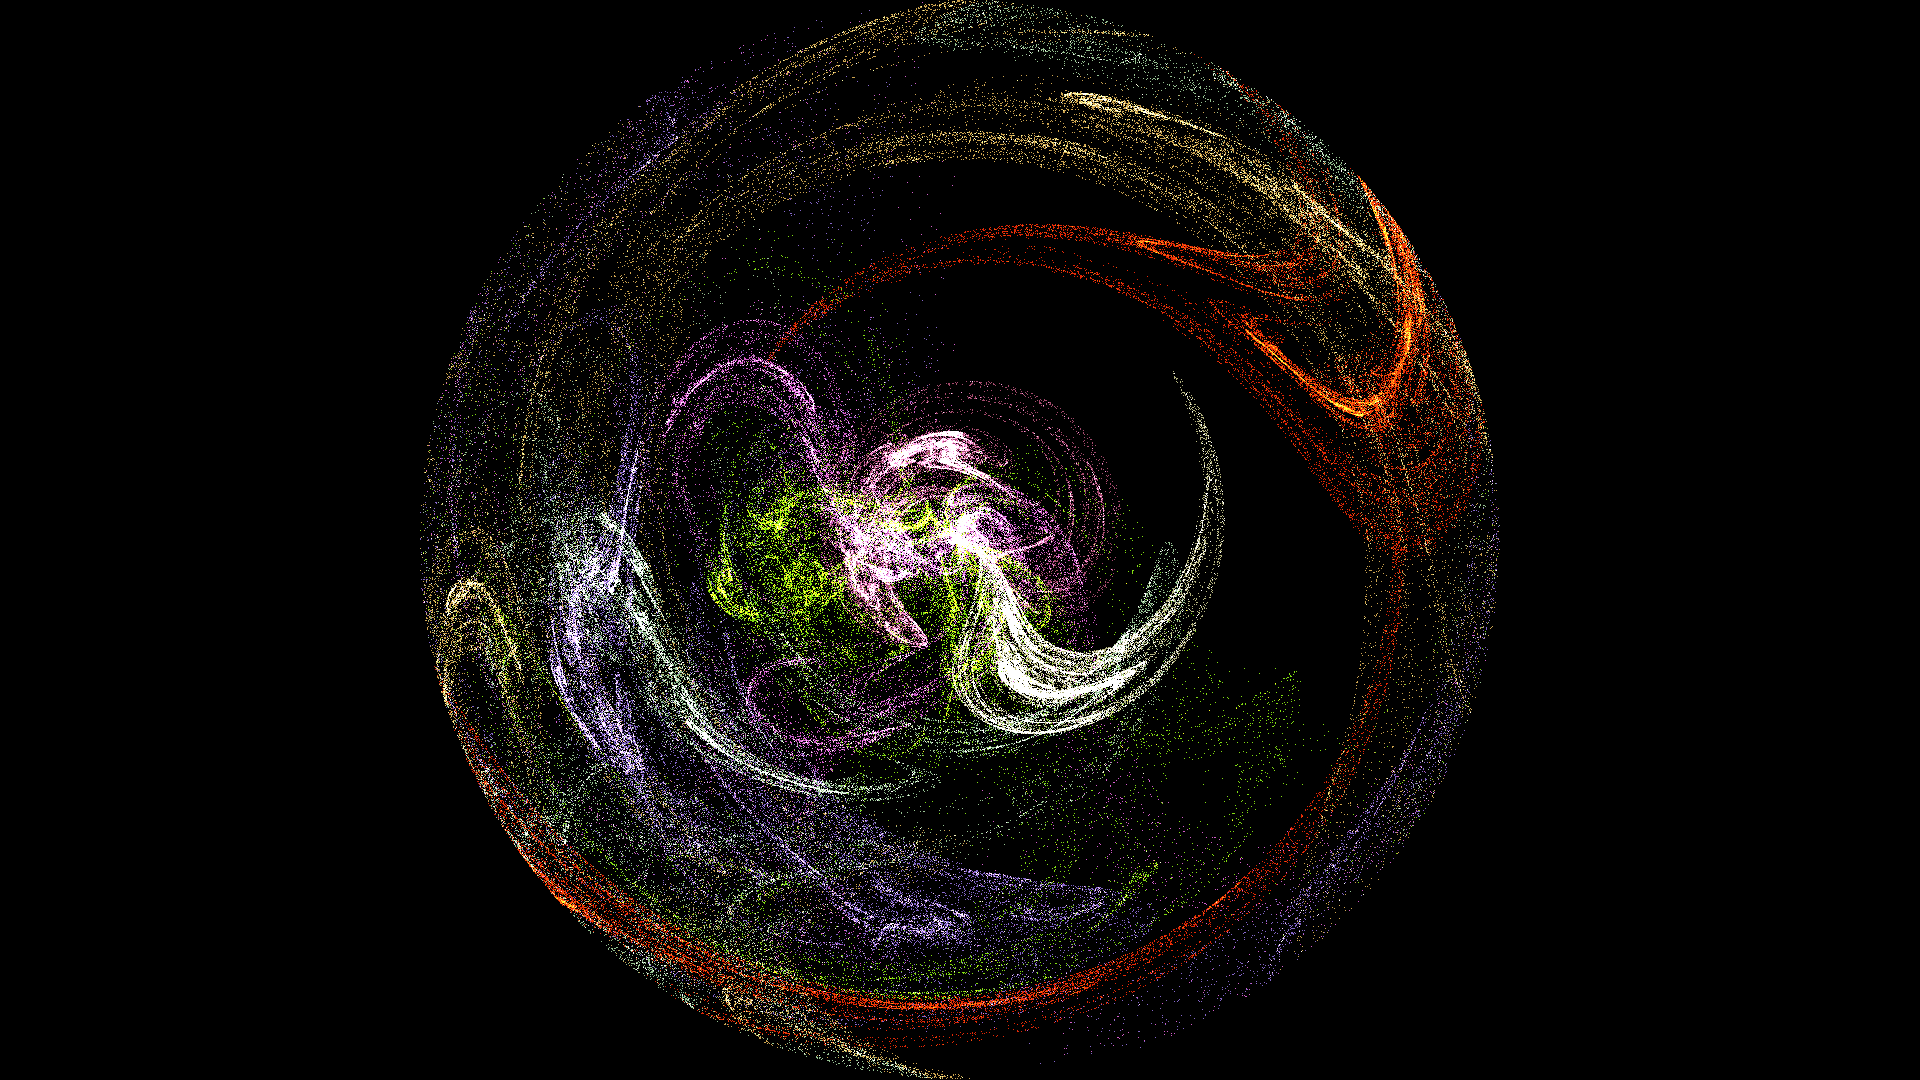
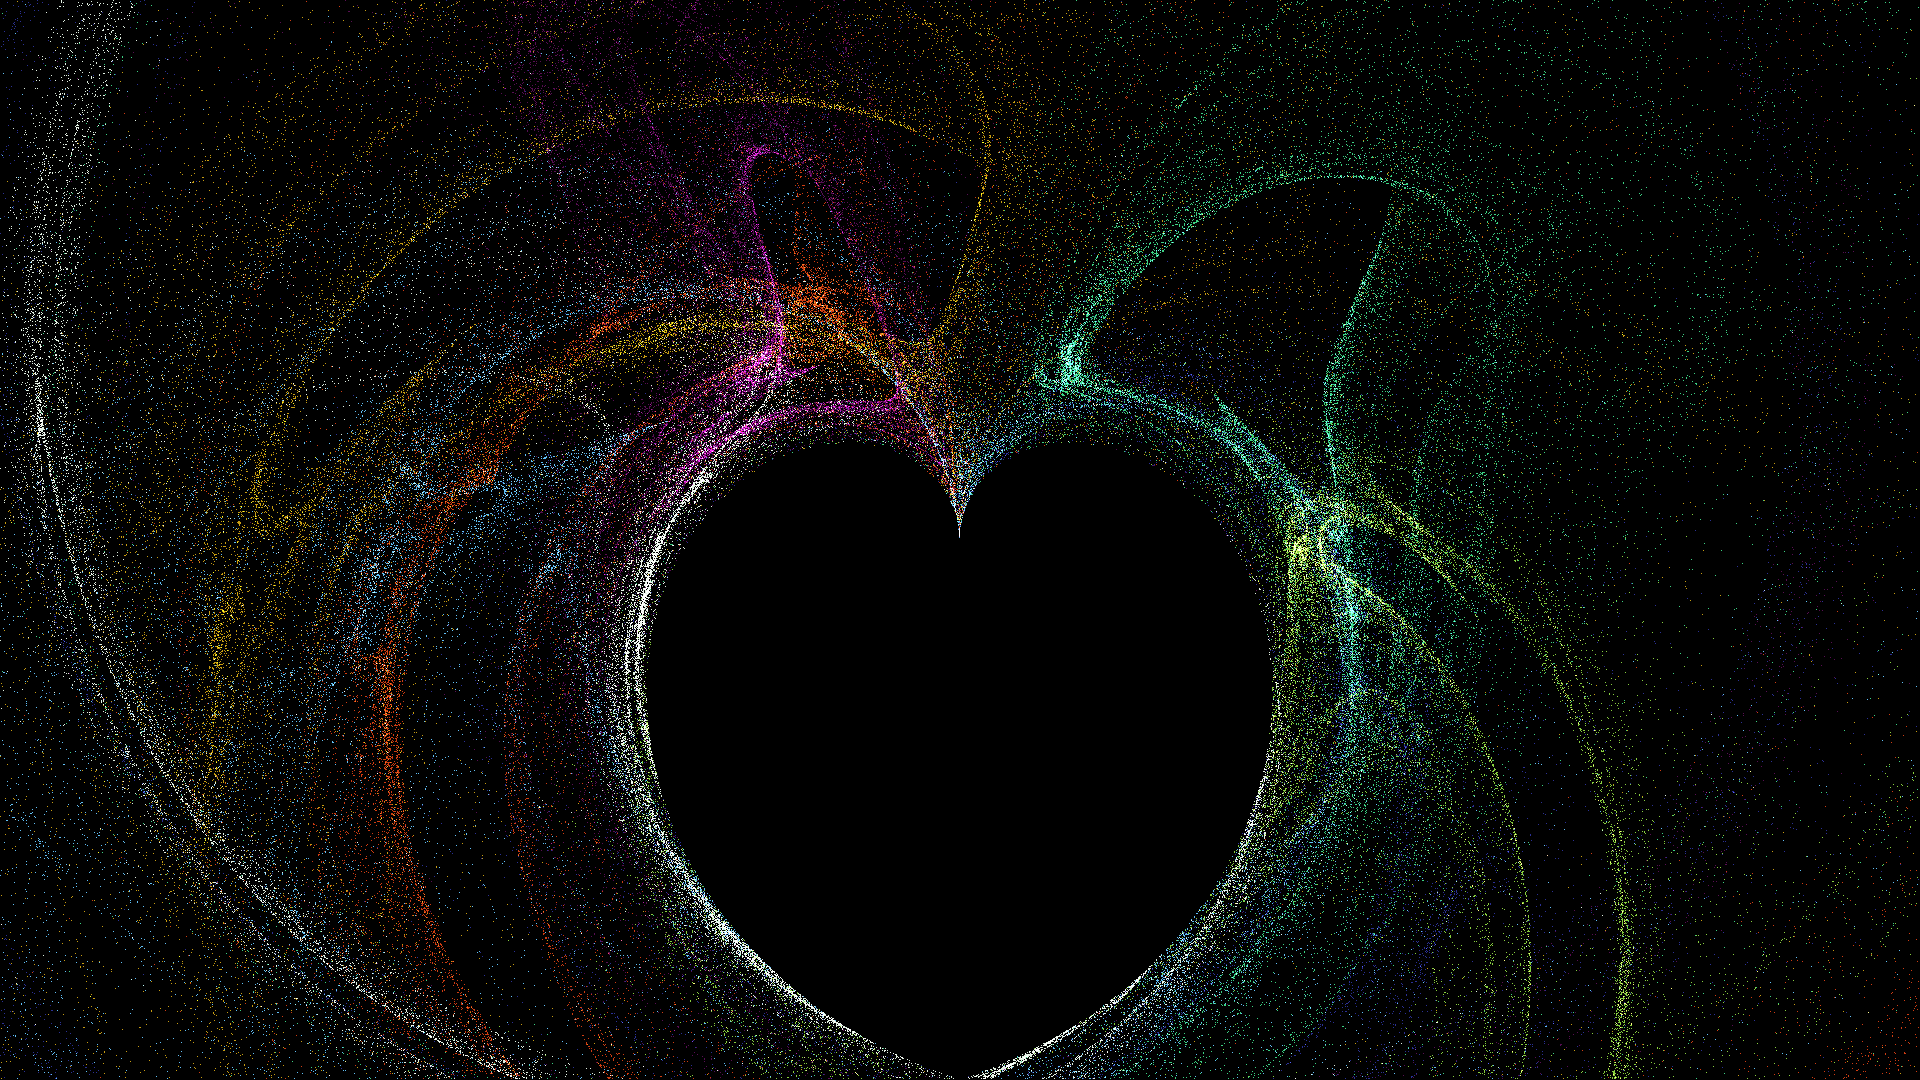
Add view for parameters

diff --git a/src/view/fractal_parameters_view.py b/src/view/fractal_parameters_view.py
@@ -1,0 +1,147 @@
+from src.domain.rect import Rect
+from src.domain.resolution import Resolution
+from src.view.parameter_validator import ParameterValidator
+from src.domain.fractal_parameters import FractalParameters
+from src.transformations.base import ITransformation
+from src.transformations.special import (
+    PolarTransformation,
+    HandkerchiefTransformation,
+    HeartTransformation,
+    DiskTransformation,
+    DiamondTransformation,
+)
+
+
+class FractalParametersView:
+    """Handles user interaction for setting fractal parameters."""
+
+    AVAILABLE_TRANSFORMATIONS: list[type[ITransformation]] = [
+        PolarTransformation,
+        HandkerchiefTransformation,
+        HeartTransformation,
+        DiskTransformation,
+        DiamondTransformation,
+    ]
+
+    DEFAULT_PARAMETERS: FractalParameters = FractalParameters(
+        resolution=Resolution(1920, 1080),
+        num_iterations=500,
+        num_transforms=8,
+        rect=Rect(-1.777, 1.777, -1, 1),
+        transformations=[HeartTransformation],  # Default single transformation
+    )
+
+    @staticmethod
+    def get_parameters() -> FractalParameters:
+        """Prompt user to choose between default and custom parameters."""
+        print("Do you want to use default parameters or set custom ones?")
+        print("1: Use default parameters")
+        print("2: Set custom parameters")
+
+        choice: int = ParameterValidator.get_positive_int(
+            "Enter your choice (1 or 2): ", "Choice must be 1 or 2."
+        )
+        while choice not in [1, 2]:
+            print("Invalid choice. Please enter 1 or 2.")
+            choice = ParameterValidator.get_positive_int(
+                "Enter your choice (1 or 2): ", "Choice must be 1 or 2."
+            )
+
+        match choice:
+            case 1:
+                return FractalParametersView.DEFAULT_PARAMETERS
+            case 2:
+                return FractalParametersView._get_custom_parameters()
+            case _:
+                raise ValueError("Invalid choice")
+
+    @staticmethod
+    def _get_custom_parameters() -> FractalParameters:
+        """Prompt the user for custom fractal parameters."""
+        print("Enter custom parameters for fractal generation:")
+
+        resolution: Resolution = FractalParametersView._get_resolution()
+
+        num_iterations: int = ParameterValidator.get_positive_int(
+            "Enter the number of iterations (e.g., 500): ",
+            "Iterations must be a positive integer.",
+        )
+
+        num_transforms: int = ParameterValidator.get_positive_int(
+            "Enter the number of affine transformations (e.g., 8): ",
+            "Number of transformations must be a positive integer.",
+        )
+
+        rect: Rect = FractalParametersView._get_rendering_area()
+
+        transformations = FractalParametersView._get_transformations()
+
+        return FractalParameters(
+            resolution=resolution,
+            num_iterations=num_iterations,
+            num_transforms=num_transforms,
+            rect=rect,
+            transformations=transformations,
+        )
+
+    @staticmethod
+    def _get_resolution() -> Resolution:
+        """Prompt user for image width and height, ensuring they are positive integers."""
+        width: int = ParameterValidator.get_positive_int(
+            "Enter the image width (e.g., 1920): ", "Width must be a positive integer."
+        )
+        height: int = ParameterValidator.get_positive_int(
+            "Enter the image height (e.g., 1080): ",
+            "Height must be a positive integer.",
+        )
+        return Resolution(width, height)
+
+    @staticmethod
+    def _get_rendering_area() -> Rect:
+        """Prompt user for rendering area bounds, ensuring valid relationships."""
+        print("Enter rendering area (left, right, bottom, top):")
+        left: float = ParameterValidator.get_float("Left: ")
+        right: float = ParameterValidator.get_float("Right: ")
+        while right <= left:
+            print("Right must be greater than Left.")
+            right = ParameterValidator.get_float("Right: ")
+
+        bottom: float = ParameterValidator.get_float("Bottom: ")
+        top: float = ParameterValidator.get_float("Top: ")
+        while top <= bottom:
+            print("Top must be greater than Bottom.")
+            top = ParameterValidator.get_float("Top: ")
+
+        return Rect(left, right, bottom, top)
+
+    @staticmethod
+    def _get_transformations() -> list[type[ITransformation]]:
+        """Prompt user to select transformations from the available list."""
+        print("Available transformations:")
+        for idx, transformation in enumerate(
+            FractalParametersView.AVAILABLE_TRANSFORMATIONS, start=1
+        ):
+            print(f"{idx}: {transformation.__name__}")
+
+        print(
+            "Enter the numbers of the transformations you want to use, separated by commas (e.g., 1,3,5):"
+        )
+        while True:
+            try:
+                selections: list[str] = input("Your selection: ").split(",")
+                selected_indices: list[int] = [int(s.strip()) for s in selections]
+
+                if not all(
+                    1 <= idx <= len(FractalParametersView.AVAILABLE_TRANSFORMATIONS)
+                    for idx in selected_indices
+                ):
+                    raise ValueError("Selections out of range.")
+
+                selected_transformations: list[type[ITransformation]] = [
+                    FractalParametersView.AVAILABLE_TRANSFORMATIONS[idx - 1]
+                    for idx in selected_indices
+                ]
+
+                return selected_transformations
+            except ValueError as e:
+                print(f"Invalid input: {e}. Please try again.")

diff --git a/src/workflow.py b/src/workflow.py
@@ -11,35 +11,33 @@ from src.transformations.base import ITransformation
 from src.transformations.special import DiskTransformation
 from src.utils.coefficient_generator import CoefficientGenerator
 from src.view.fractal_image_view import FractalImageView
+from src.domain.fractal_parameters import FractalParameters
+from src.view.fractal_parameters_view import FractalParametersView
 
 
 def workflow():
-    width, height = 1920, 1080
-    resolution: Resolution = Resolution(width, height)  # Image resolution
-    iterations: int = 500  # Number of points to plot (1000000)
-    num_transforms: int = 8  # Number of affine transformations
-    rect: Rect = Rect(-1.777, 1.777, -1, 1)  # Define the rendering area
-
-    transformation: ITransformation = DiskTransformation()
+    fractal_parameters: FractalParameters = FractalParametersView.get_parameters()
 
     coeffs: list[AffineCoefficient] = CoefficientGenerator.generate(
-        num_transforms, transformation
+        fractal_parameters.num_transforms, fractal_parameters.transformations
     )
 
     symmetry_type: SymmetryType = SymmetryType.NONE
-    fractal_flame: FractalFlame = FractalFlame.create(resolution, rect, symmetry_type)
+    fractal_flame: FractalFlame = FractalFlame.create(
+        fractal_parameters.resolution, fractal_parameters.rect, symmetry_type
+    )
 
     start_time = time.time()
-    fractal_flame.render(iterations, coeffs, num_threads=1)
+    fractal_flame.render(fractal_parameters.num_iterations, coeffs, num_threads=1)
     runtime = time.time() - start_time
 
     fractal_image: PILImage = FractalImageView.to_image(fractal_flame)
 
     output_filename: str = "fractal_flame.png"
     fractal_image.save(output_filename, "PNG")
-    print(f"Output saved to {output_filename}")
-    print(f"Image dimensions: {width}x{height}")
-    print(
-        f"Number of points to plot: {iterations}, Number of affine transformations: {num_transforms}"
-    )
-    print(f"Runtime: {runtime:.2f} seconds")
+    # print(f"Output saved to {output_filename}")
+    # print(f"Image dimensions: {width}x{height}")
+    # print(
+    #     f"Number of points to plot: {iterations}, Number of affine transformations: {num_transforms}"
+    # )
+    # print(f"Runtime: {runtime:.2f} seconds")

diff --git a/src/core/fractal_flame.py b/src/core/fractal_flame.py
@@ -97,12 +97,16 @@ class FractalFlame:
             for _ in range(20):  # Burn-in iterations
                 coeff: AffineCoefficient = random.choice(coeffs)
                 point: Point = affine_transform(point.x, point.y, coeff)
-                point: Point = coeff.transformation.apply(point.x, point.y)
+
+                for transformation in coeff.transformations:
+                    point: Point = transformation().apply(point.x, point.y)
 
             for _ in range(iterations):  # Main rendering iterations
                 coeff: AffineCoefficient = random.choice(coeffs)
                 point: Point = affine_transform(point.x, point.y, coeff)
-                point: Point = coeff.transformation.apply(point.x, point.y)
+
+                for transformation in coeff.transformations:
+                    point: Point = transformation().apply(point.x, point.y)
 
                 # Apply symmetry
                 points: list[Point] = self._apply_symmetry(point)

diff --git a/src/view/parameter_validator.py b/src/view/parameter_validator.py
@@ -1,0 +1,24 @@
+class ParameterValidator:
+    """Validates user input for fractal flame parameters"""
+
+    @staticmethod
+    def get_positive_int(prompt: str, error_message: str) -> int:
+        """Prompt user for a positive integer with validation"""
+        while True:
+            try:
+                value = int(input(prompt))
+                if value > 0:
+                    return value
+                else:
+                    print(error_message)
+            except ValueError:
+                print("Invalid input. Please enter a valid integer.")
+
+    @staticmethod
+    def get_float(prompt: str) -> float:
+        """Prompt user for a floating-point number with validation"""
+        while True:
+            try:
+                return float(input(prompt))
+            except ValueError:
+                print("Invalid input. Please enter a valid floating-point number.")

diff --git a/src/utils/coefficient_generator.py b/src/utils/coefficient_generator.py
@@ -9,7 +9,7 @@ class CoefficientGenerator:
 
     @staticmethod
     def generate(
-        num_transforms: int, transformation: ITransformation
+        num_transforms: int, transformations: list[type[ITransformation]]
     ) -> list[AffineCoefficient]:
         """Generates random coefficients for affine transformations"""
         coefficients: list[AffineCoefficient] = []
@@ -25,7 +25,7 @@ class CoefficientGenerator:
                     red=random.random(),
                     green=random.random(),
                     blue=random.random(),
-                    transformation=transformation,
+                    transformations=transformations,
                 )
             )
         return coefficients

diff --git a/src/domain/fractal_parameters.py b/src/domain/fractal_parameters.py
@@ -1,0 +1,13 @@
+from dataclasses import dataclass
+from src.domain.rect import Rect
+from src.domain.resolution import Resolution
+from src.transformations.base import ITransformation
+
+
+@dataclass
+class FractalParameters:
+    resolution: Resolution
+    num_iterations: int
+    num_transforms: int
+    rect: Rect
+    transformations: list[type[ITransformation]]

diff --git a/src/domain/affine_coefficient.py b/src/domain/affine_coefficient.py
@@ -16,4 +16,4 @@ class AffineCoefficient:
     red: float
     green: float
     blue: float
-    transformation: ITransformation
+    transformations: list[type[ITransformation]]
